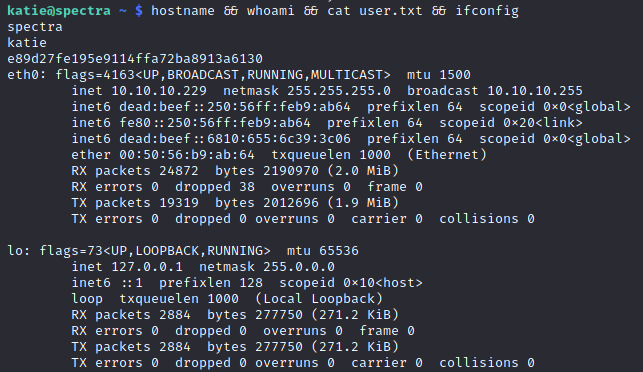
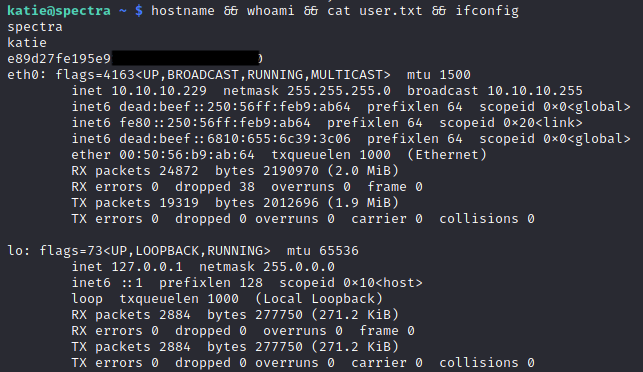
Add writeup for HackTheBox RouterSpace (#18)

Changed region(s): [[0.1555, 0.1183, 0.4044, 0.1774]]

diff --git a/_posts/2022-07-10-htb-routerspace.md b/_posts/2022-07-10-htb-routerspace.md
@@ -1,0 +1,146 @@
+---
+layout: post
+title: "HTB - RouterSpace"
+author: "BoT"
+tags: "writeup"
+excerpt_separator: <!--more-->
+---
+
+An easy box or so they say. The setup definitely wasn't as easy though.
+
+<!--more-->
+
+## HackTheBox - RouterSpace
+
+**Box**: RouterSpace\
+**IP address**: 10.10.11.148 \
+**Local**: 6a323bd64e59744██████████████████ \
+**Proof**: 7718b24cbcbffe93██████████████████
+
+### Local
+
+#### Enumeration
+
+As per any new boxes, I started off with the usual recon scripts.
+
+Unfortunately, nothing in particular stood out and I moved on to explore :80 which was serving a web application. Interestingly, there is an APK available for us download.
+
+![apk-available](../assets/202207_htb_routerspace/0_html_source_view.png)
+
+Interest piqued, I tried to do some basic static analysis with the following tools:
+
+- `unzip`: since an APK is simply an archive of multiple folders and files
+- `jadx-gui`: a decompiler that produces Java source code from APK files
+
+```bash
+unzip spacerouter.apk
+jadx-gui spacerouter.apk
+```
+
+Still nothing.
+
+This leaves me with the only option: run the APK in an emulator and intercept its requests via Burpsuite.
+
+#### Setting up Environment
+
+This is a tedious task, especially if the machine you are working on lacks the necessary tools. I have had written a short [blog post](../2021-12-06/burpsuite-for-android) on the hows of setting up, but here's a quick overview of what's needed:
+
+1. Install Android Studios from the official website
+
+2. Create a virtual device of the following specification:
+
+   **Name**: `Rooted`\
+   **Specification**: Nexus 5 API 23, Android 6.0, x86\
+   **Purpose**: An emulator without Google Play, a rooted environment
+
+3. Configure Burpsuite proxy settings
+
+   At Burpsuite, under `Proxy > Options > Proxy Listener > Add > Binding`, add the following:
+
+   **Bind to port:** 8082\
+   **Bind to address:** All interfaces
+
+   At Brupsuite, under `Proxy > Options > Proxy Listener > Export CA certificate`
+
+   **Select** `Certificate in DER format`\
+   **Export file** as `Burpsuite.CER`
+
+4. Configure Android Emulator proxy settings
+
+   Navigate to `Settings > Proxy > Manual Proxy Configuration` and input the following:
+
+   **Hostname:** 127.0.0.1\
+   **Port number:** 8082
+
+   Drag and drop `Brupsuite.CER` into emulator and install it under `Settings > Credentials Storage > Install from SD Card`
+
+   **Certificate name:** Burpsuite\
+   **Certificate use:** VPN and Apps
+
+At this point, check if Burpsuite can capture traffic from the emulator's browser. If yes, the configuration is done correctly and you can proceed to drag and drop the `routerspace.apk` into the emulator.
+
+If not, these might be some of the errors you are facing and solutions that may work for you:
+
+> "routerspace.htb: Unable to connect to server!"
+
+```bash
+adb root
+adb remount
+abd pull /system/etc/hosts
+echo "10.10.11.148 routerspace.htb" >> hosts
+adb push hosts /system/etc/hosts
+```
+
+> "adb: error: failed to copy 'host' to '/system/etc/hosts': remote Read-only file system"
+
+```bash
+adb root
+adb disable-verity
+adb reboot
+adb root
+adb remount
+adb push hosts /system/etc/hosts
+```
+
+#### Attack Vector
+
+Now that we have Burpsuite intercepting requests, we can see request made to `/api/v4/monitoring/router/check/deviceAccess`.
+
+A few moments of experimentation shows that the endpoint is vulnerable to command injection with `authorized_keys` file available for tampering.
+
+![command-injection](../assets/202207_htb_routerspace/2_command_injection.png)
+
+Now, we just have to generate a new SSH key and overwrite the `authorized_keys` file with our newly generated public key.
+
+```bash
+ssh-keygen -t rsa
+cat ~/.ssh/id_rsa.pub
+```
+
+This is the payload I used:
+
+```json
+{ "ip": "0.0.0.0&echo 'SSH_PUBLIC_KEY_HERE' > ../../../../home/paul/.ssh/authorized_keys" }
+```
+
+![upload-ssh-key](../assets/202207_htb_routerspace/3_append_ssh_key.png)
+
+With that, I can now SSH into `Paul` -- user shell obtained!
+
+![local.txt](../assets/202207_htb_routerspace/4_local.png)
+
+### Proof
+
+#### Enumeration
+
+Local privilege escalation is rather straightforward for this box.
+
+With no evidence of obvious misconfigurations, I decided to take a look at the possible CVEs suggested by `Linpeas` and went down the list to check which of these are the keys of the metaphorical building.
+
+![linux-exploit-suggester](../assets/202207_htb_routerspace/5_linux_exploit_suggester.png)
+
+As it turns out, `CVE-2021-3156` was the answer and I chose to use this [script](https://raw.githubusercontent.com/worawit/CVE-2021-3156/main/exploit_nss.py) by `worawit`.
+
+Yep, look at that -- a root shell!
+
+![proof.txt](../assets/202207_htb_routerspace/6_proof.png)
